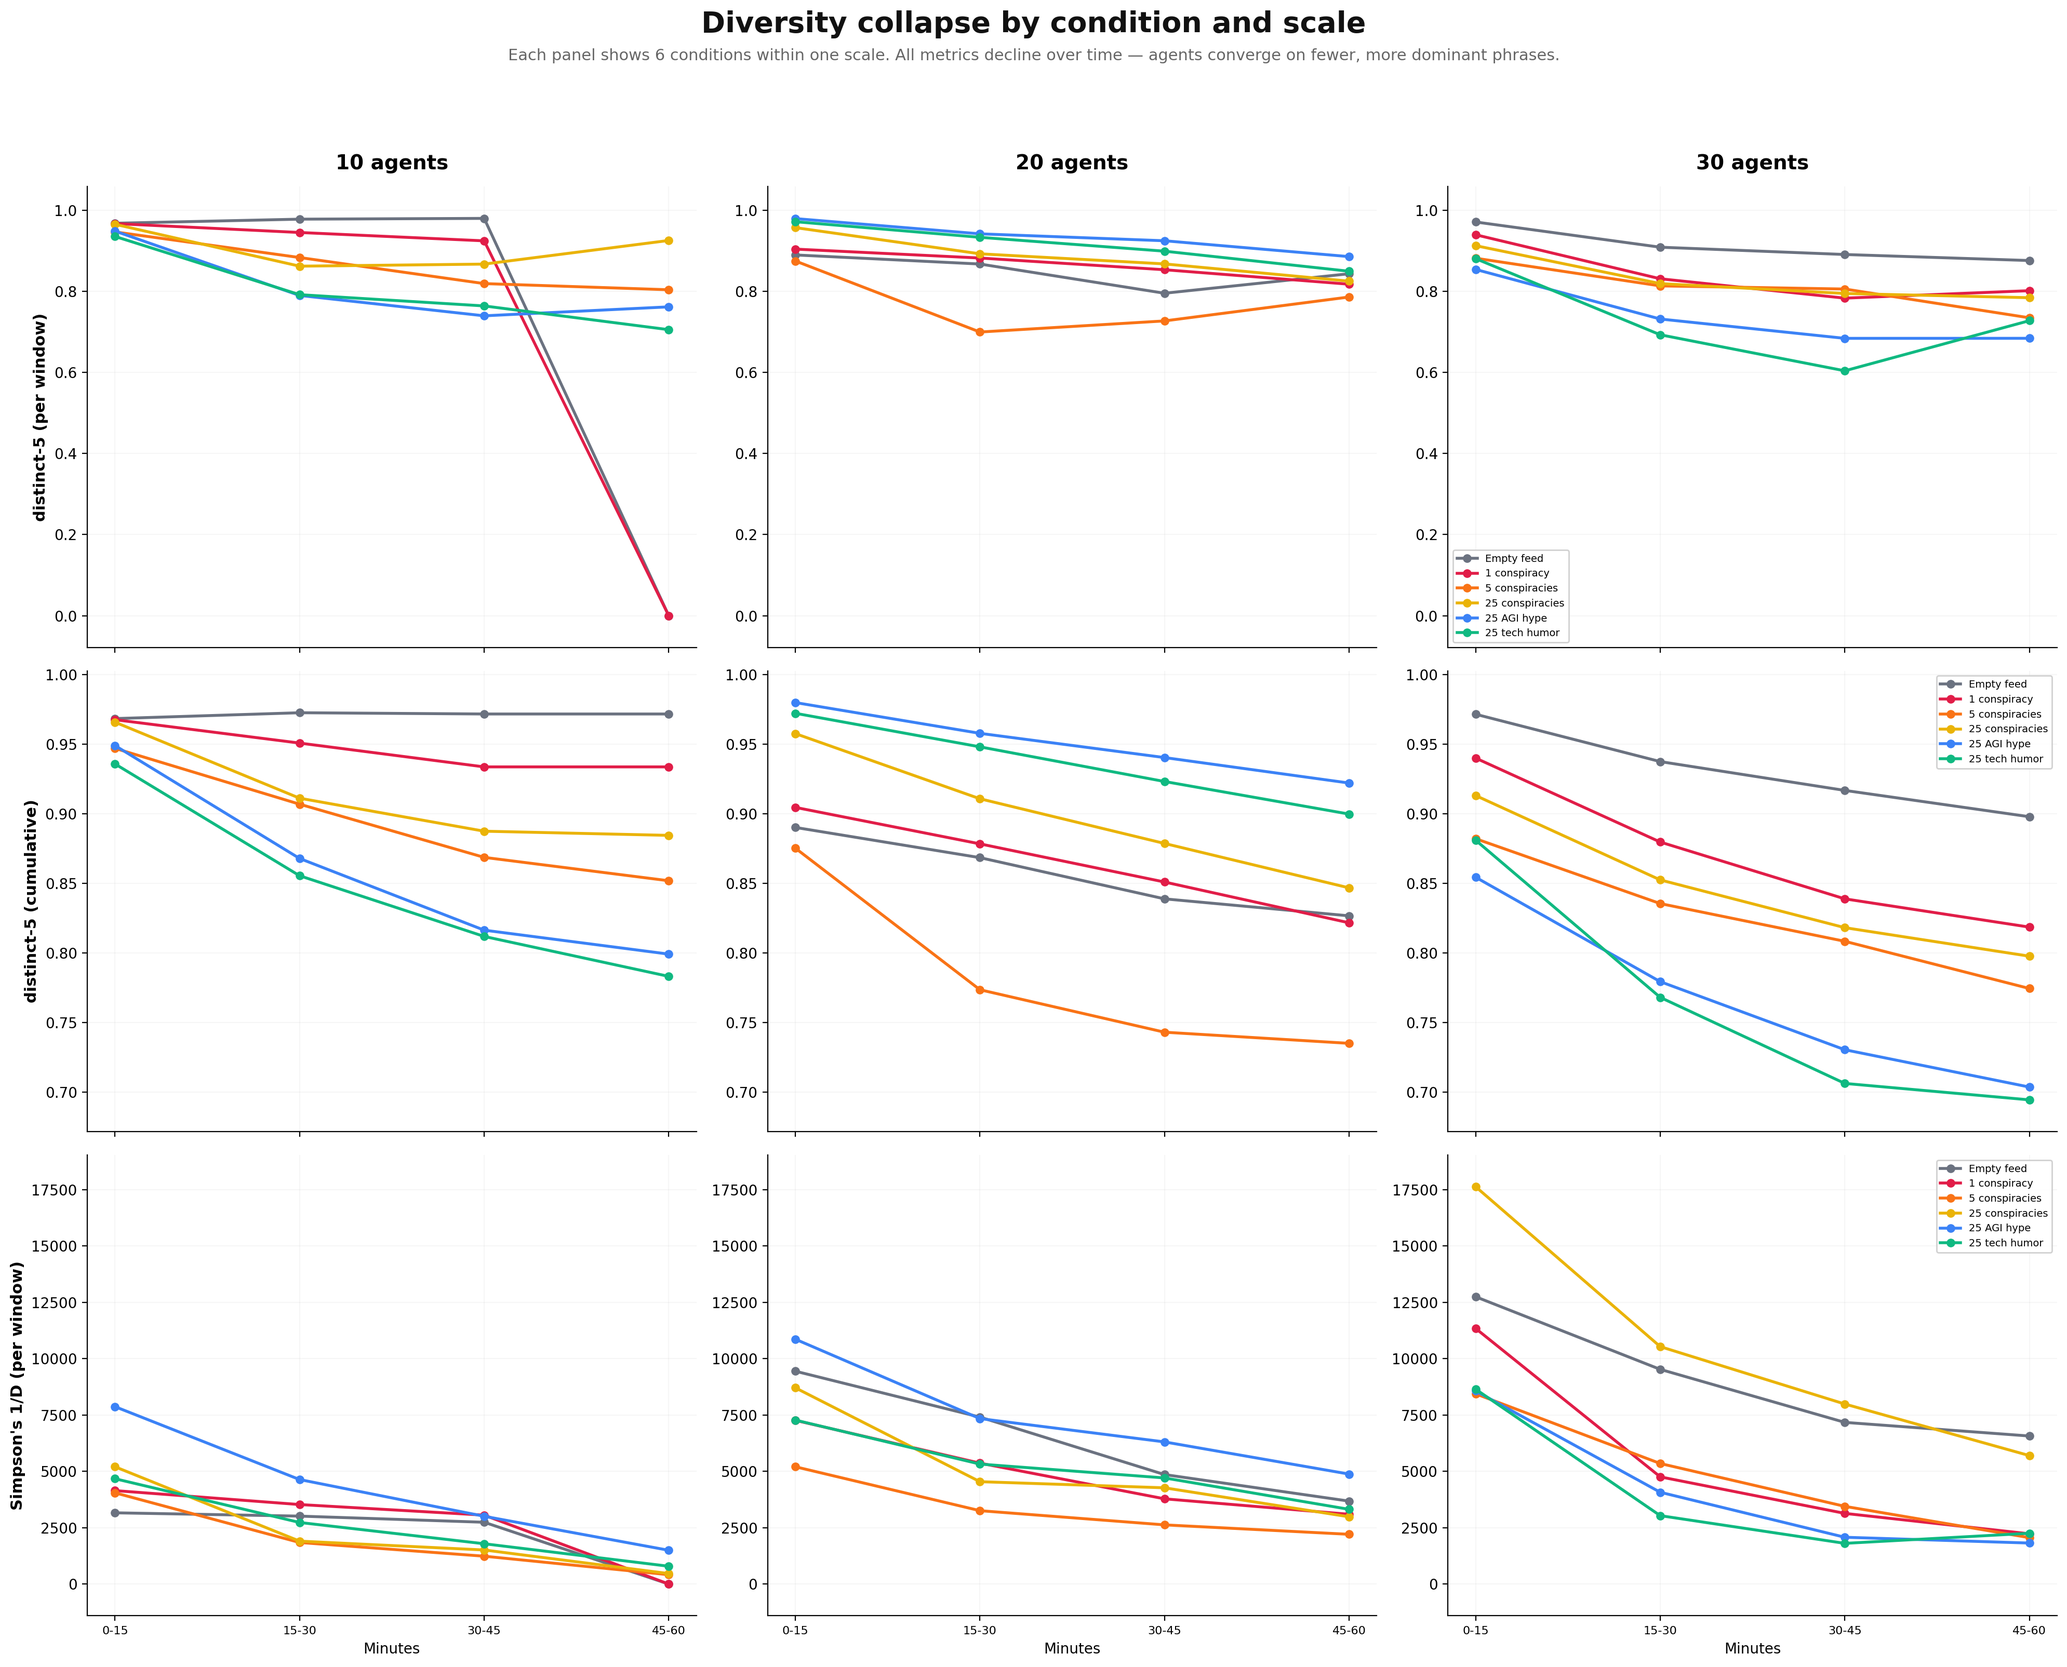
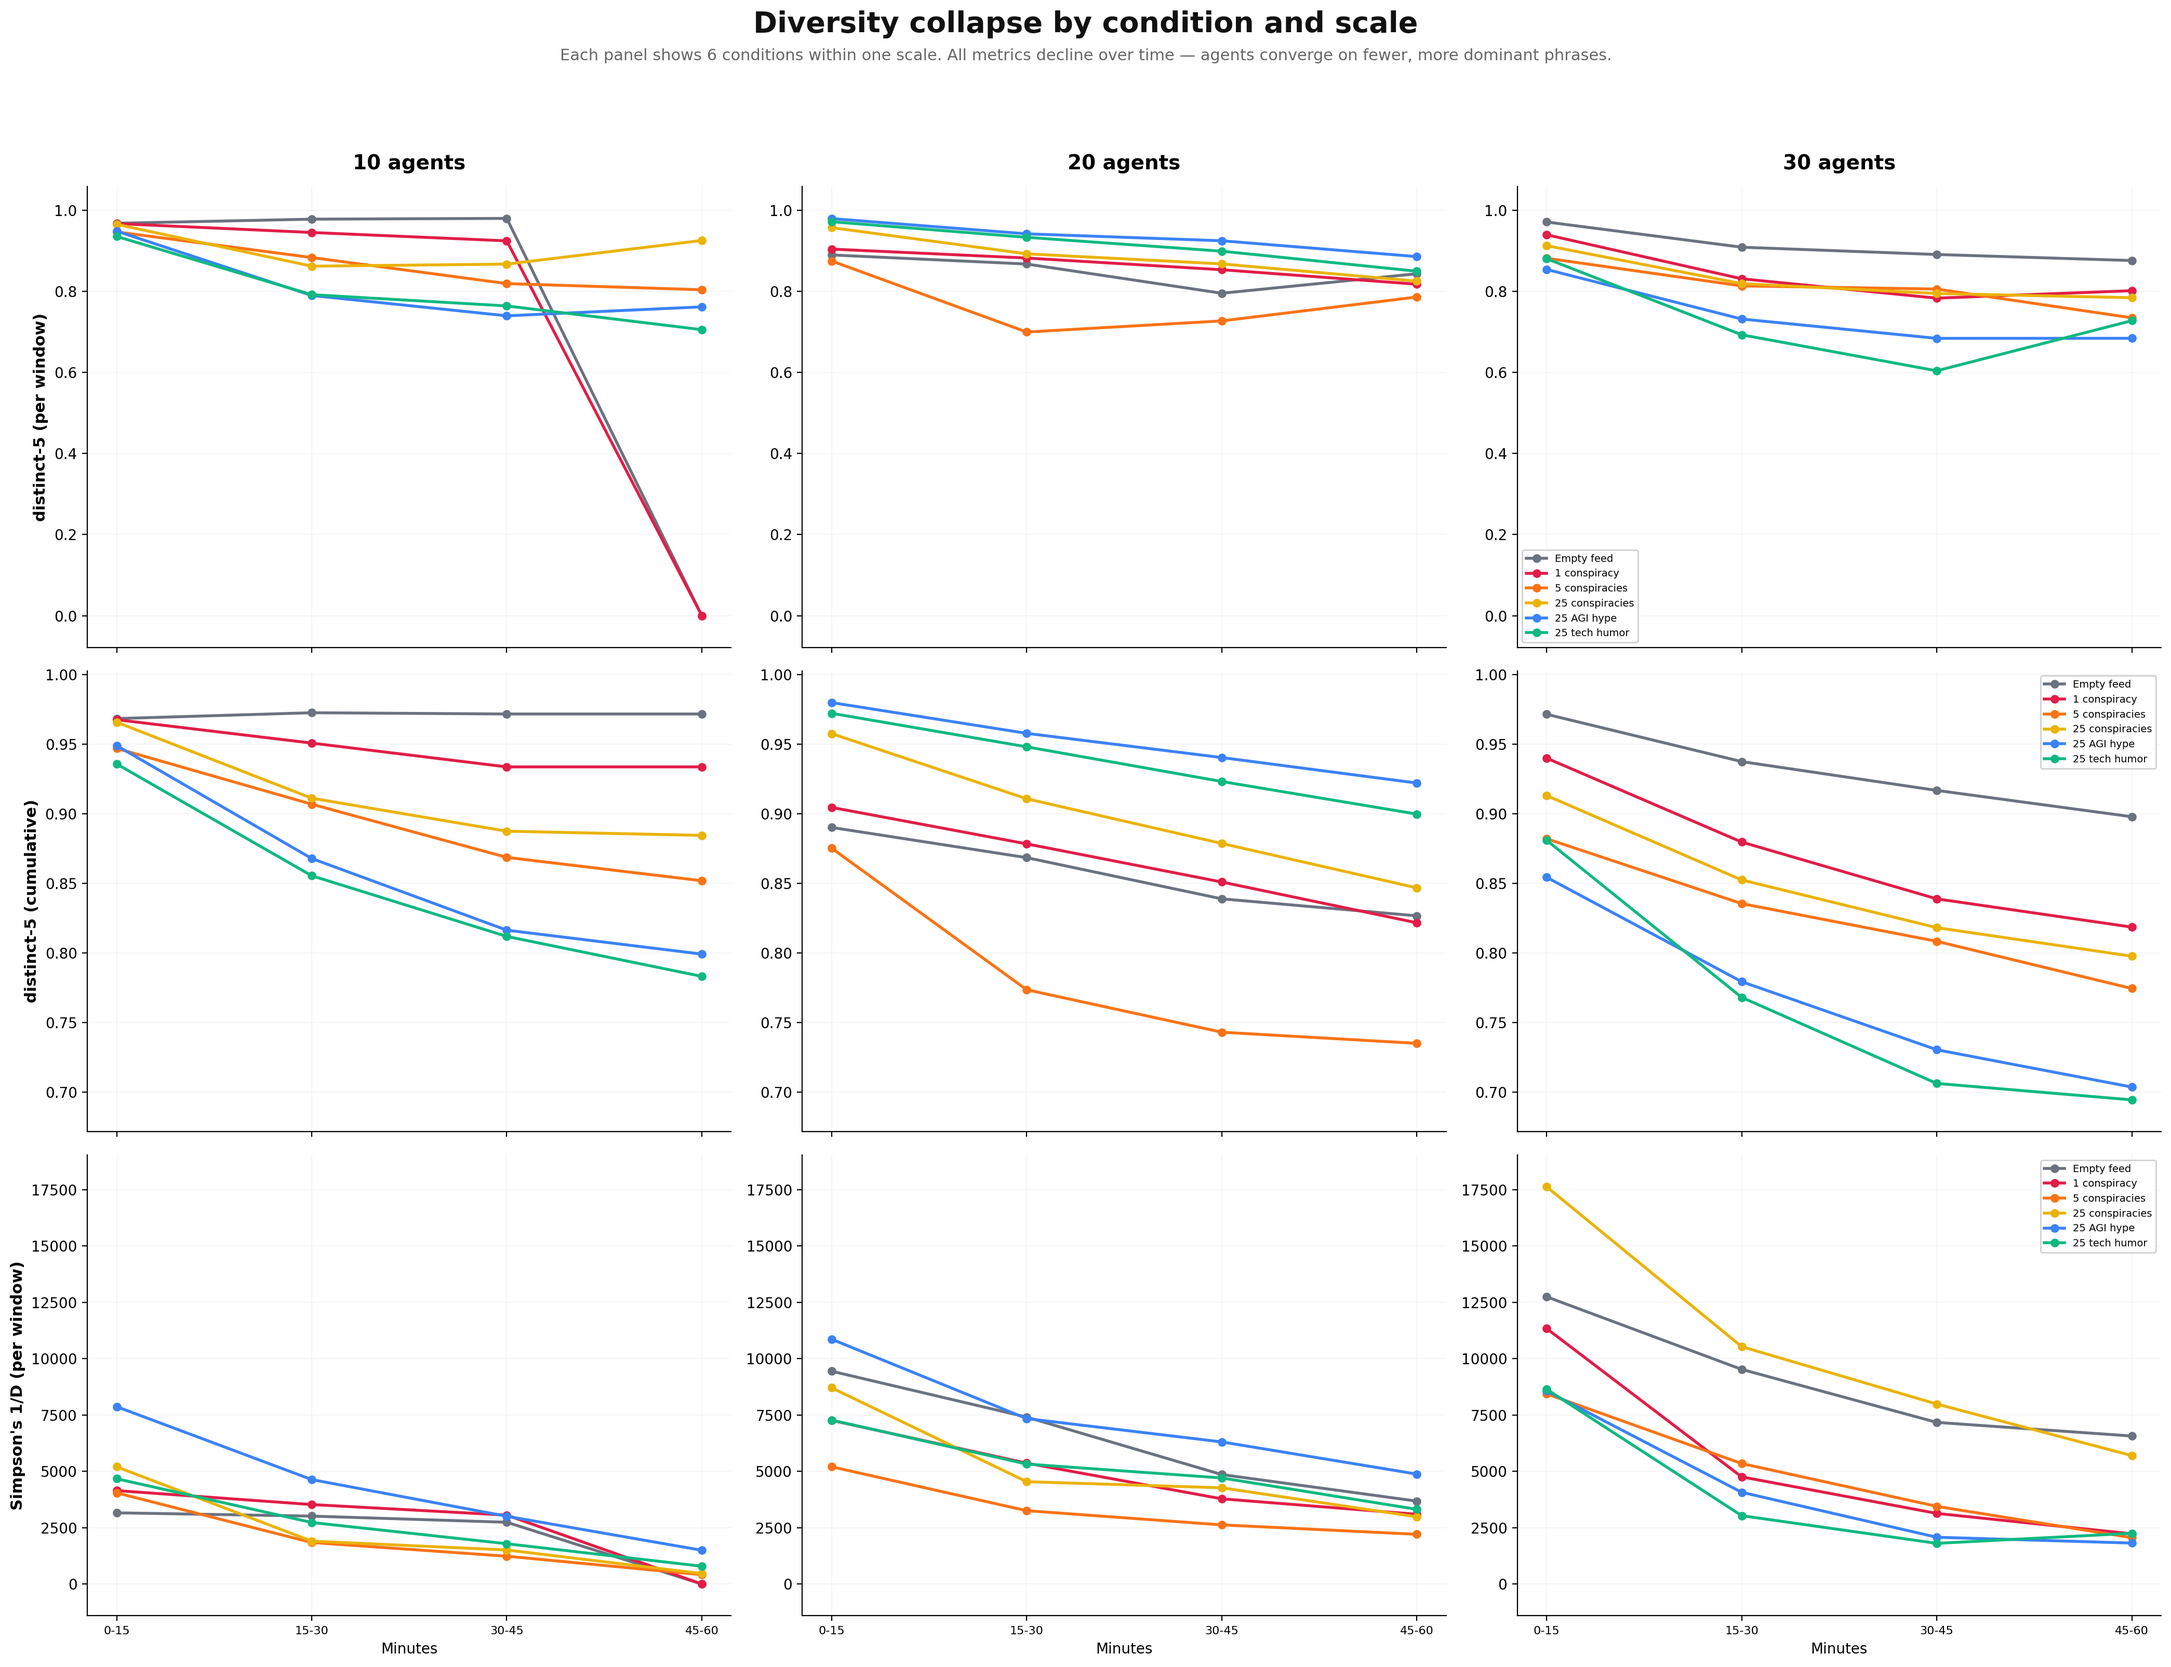
Graphs updated

diff --git a/scripts/analysis_new/diversity_metrics.py b/scripts/analysis_new/diversity_metrics.py
@@ -124,7 +124,16 @@ def main():
         SCALES = args.scales.split(",")
     if args.out_dir:
         OUT_DIR = Path(args.out_dir)
-    scale_dirs = {s: Path(args.data_dir) for s in SCALES} if args.data_dir else None
+    scale_dirs = None
+    if args.data_dir:
+        base = Path(args.data_dir)
+        # Auto-detect: if base contains scale subdirs (n10/, n20/, …), use them
+        if any((base / s).is_dir() for s in SCALES):
+            scale_dirs = {s: base / s for s in SCALES if (base / s).is_dir()}
+            if args.scales is None:
+                SCALES = sorted(scale_dirs.keys())
+        else:
+            scale_dirs = {s: base for s in SCALES}
 
     OUT_DIR.mkdir(parents=True, exist_ok=True)
 
@@ -255,6 +264,152 @@ def main():
     fig.savefig(OUT_DIR / "diversity_grid.png", dpi=200, bbox_inches="tight")
     plt.close(fig)
     print("Wrote diversity_grid.png")
+
+    # -----------------------------------------------------------------------
+    # PER-SCALE cumulative diversity charts (one chart per agent count,
+    # all conditions as separate lines)
+    # -----------------------------------------------------------------------
+    print("Generating per-scale cumulative diversity plots...")
+
+    for scale in SCALES:
+        num_agents = scale.replace("n", "")
+
+        fig, ax = plt.subplots(figsize=(7.0, 4.0), dpi=220)
+        fig.patch.set_facecolor("white")
+        ax.set_facecolor("white")
+
+        for cond in CONDITION_ORDER:
+            vals = []
+            for bi in range(n_bins):
+                data = lookup[(scale, cond, bi)]["distinct_5_cumulative"]
+                vals.append(sum(data) / len(data) if data else 0)
+
+            label = CONDITION_LABELS.get(cond, cond)
+            ax.plot(
+                bin_labels, vals,
+                color=COND_COLORS[cond],
+                linewidth=2.8,
+                marker="o",
+                markersize=6,
+                label=label,
+                zorder=3,
+            )
+            ax.text(
+                n_bins - 1 + 0.08, vals[-1], f"{vals[-1]:.2f}",
+                fontsize=9, color=COND_COLORS[cond], va="center", fontweight="bold",
+            )
+
+        ax.set_ylim(0.58, 1.02)
+        ax.set_ylabel("Cumulative distinct 5-grams")
+        ax.set_xlabel("Minutes")
+        ax.grid(axis="both", color="#E8ECF2", linewidth=1.0, zorder=0)
+        ax.tick_params(axis="both", length=0)
+        for spine in ax.spines.values():
+            spine.set_visible(False)
+        ax.legend(
+            frameon=True, facecolor="white", edgecolor="#D0D5DD",
+            fontsize=9, loc="lower left", framealpha=0.9,
+        )
+        model_dir_name = OUT_DIR.parent.name
+        model_nice = {
+            "gpt-5": "GPT-5", "gemini-flash-lite": "Gemini Flash Lite",
+            "glm-5": "GLM-5", "kimi-k2.5": "Kimi-K2.5",
+        }.get(model_dir_name, model_dir_name)
+        ax.set_title(
+            f"Cumulative lexical diversity ({model_nice} / {num_agents} agents)",
+            fontweight="bold", pad=12,
+        )
+
+        fig.tight_layout(pad=1.5)
+        out_path = OUT_DIR / f"diversity_cumulative_{num_agents}agents.png"
+        fig.savefig(out_path, bbox_inches="tight")
+        plt.close(fig)
+        print(f"Wrote {out_path.name}")
+
+    # -----------------------------------------------------------------------
+    # PER-CONDITION cumulative diversity charts (one chart per condition,
+    # scales as separate lines — colors match diversity grid 2nd row)
+    # -----------------------------------------------------------------------
+    print("Generating per-condition cumulative diversity plots...")
+
+    SCALE_COLORS = {"n10": "#6B7280", "n20": "#E11D48", "n30": "#F97316"}
+    SCALE_LABELS_SHORT = {"n10": "10 agents", "n20": "20 agents", "n30": "30 agents"}
+    COND_NICE_NAMES = {
+        "mag0": "Empty feed", "mag1": "1 conspiracy", "mag5": "5 conspiracies",
+        "mag25": "25 conspiracies", "dom-agi": "AGI hype", "dom-tech": "Tech humor",
+    }
+    COND_FILE_NAMES = {
+        "mag0": "empty-feed", "mag1": "1-conspiracy", "mag5": "5-conspiracies",
+        "mag25": "25-conspiracies", "dom-agi": "agi-hype", "dom-tech": "tech-humor",
+    }
+
+    for cond in CONDITION_ORDER:
+        # Determine which scales have data for this condition
+        active_scales = []
+        for scale in SCALES:
+            has_data = any(
+                lookup[(scale, cond, bi)]["distinct_5_cumulative"]
+                for bi in range(n_bins)
+            )
+            if has_data:
+                active_scales.append(scale)
+        if not active_scales:
+            continue
+
+        fig, ax = plt.subplots(figsize=(7.0, 4.0), dpi=220)
+        fig.patch.set_facecolor("white")
+        ax.set_facecolor("white")
+
+        for scale in active_scales:
+            vals = []
+            for bi in range(n_bins):
+                data = lookup[(scale, cond, bi)]["distinct_5_cumulative"]
+                vals.append(sum(data) / len(data) if data else 0)
+
+            ax.plot(
+                bin_labels, vals,
+                color=SCALE_COLORS[scale],
+                linewidth=2.8,
+                marker="o",
+                markersize=6,
+                label=SCALE_LABELS_SHORT[scale],
+                zorder=3,
+            )
+            ax.text(
+                n_bins - 1 + 0.08, vals[-1], f"{vals[-1]:.2f}",
+                fontsize=9, color=SCALE_COLORS[scale], va="center", fontweight="bold",
+            )
+
+        ax.set_ylim(0.58, 1.02)
+        ax.set_ylabel("Cumulative distinct 5-grams")
+        ax.set_xlabel("Minutes")
+        ax.grid(axis="both", color="#E8ECF2", linewidth=1.0, zorder=0)
+        ax.tick_params(axis="both", length=0)
+        for spine in ax.spines.values():
+            spine.set_visible(False)
+        ax.legend(
+            frameon=True, facecolor="white", edgecolor="#D0D5DD",
+            fontsize=9, loc="lower left", framealpha=0.9,
+        )
+
+        # Build a nice model name from OUT_DIR (e.g. "GPT-5", "Gemini Flash Lite")
+        model_dir_name = OUT_DIR.parent.name  # e.g. "gpt-5", "gemini-flash-lite"
+        model_nice = {
+            "gpt-5": "GPT-5", "gemini-flash-lite": "Gemini Flash Lite",
+            "glm-5": "GLM-5", "kimi-k2.5": "Kimi-K2.5",
+        }.get(model_dir_name, model_dir_name)
+        cond_nice = COND_NICE_NAMES.get(cond, cond)
+
+        ax.set_title(
+            f"Lexical diversity over time ({model_nice} / {cond_nice})",
+            fontweight="bold", pad=12,
+        )
+
+        fig.tight_layout(pad=1.5)
+        out_path = OUT_DIR / f"diversity_{COND_FILE_NAMES.get(cond, cond)}.png"
+        fig.savefig(out_path, bbox_inches="tight")
+        plt.close(fig)
+        print(f"Wrote {out_path.name}")
 
     # -----------------------------------------------------------------------
     # JSON summary
